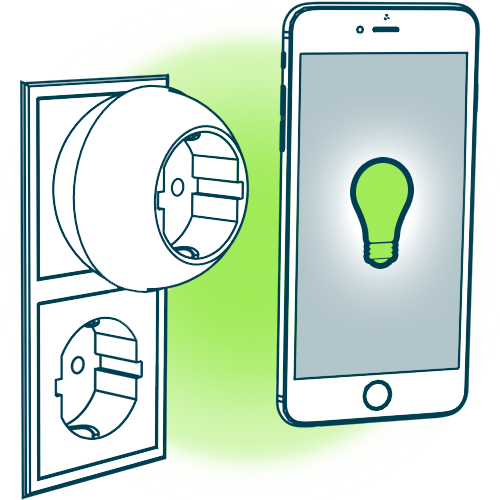
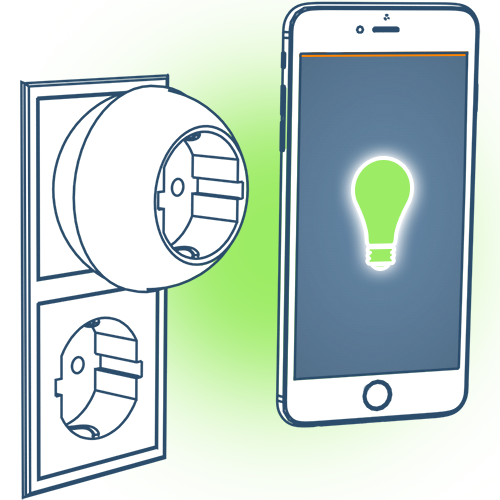
new images for recovery and t2t, cleaned up log. Fixed endless spinney in device overview, disabled mesh

diff --git a/js/views/deviceViews/DeviceOverview.tsx b/js/views/deviceViews/DeviceOverview.tsx
@@ -35,6 +35,7 @@ export class DeviceOverview extends Component<any, any> {
   unsubscribeStoreEvents : any;
   swiper: any = 0;
   unsubscribeSwipeEvent : any;
+  touchEndTimeout: any;
 
   constructor() {
     super();
@@ -88,6 +89,7 @@ export class DeviceOverview extends Component<any, any> {
   componentWillUnmount() {
     this.unsubscribeStoreEvents();
     this.unsubscribeSwipeEvent();
+    clearTimeout(this.touchEndTimeout);
   }
 
 
@@ -143,6 +145,7 @@ export class DeviceOverview extends Component<any, any> {
           loop={false}
           bounces={true}
           onScrollBeginDrag={  () => { checkScrolling(true);  }}
+          onTouchEnd={() => { this.touchEndTimeout = setTimeout(() => { checkScrolling(false); }, 400);  }}
         >
           { this._getContent(hasError, canUpdate, hasBehaviour, deviceType) }
         </Swiper>

diff --git a/js/views/settingsViews/SettingsDeveloper.tsx b/js/views/settingsViews/SettingsDeveloper.tsx
@@ -147,7 +147,7 @@ export class SettingsDeveloper extends Component<any, any> {
       label:"Enable Tap To Toggle",
       value: state.app.tapToToggleEnabled,
       type: 'switch',
-      icon: <IconButton name="md-color-wand" size={22} button={true} color="#fff" buttonStyle={{backgroundColor:colors.purple.hex}} />,
+      icon: <IconButton name="md-color-wand" size={22} button={true} color="#fff" buttonStyle={{backgroundColor:colors.green2.hex}} />,
       callback:(newValue) => {
         if (newValue === false) {
           clearAllLogs();

diff --git a/js/native/libInterface/BluenetPromise.ts b/js/native/libInterface/BluenetPromise.ts
@@ -13,7 +13,7 @@ export const BluenetPromise : any = function(functionName, param, param2, param3
       let bluenetArguments = [];
       let promiseResolver = (result) => {
         if (result.error === true) {
-          LOG.info("PROMISE REJECTED WHEN CALLING ", functionName, " error:", result.data);
+          LOG.info("BluenetPromise: promise rejected in bridge: ", functionName, " error:", result.data);
           reject(result.data);
         }
         else {

diff --git a/js/ExternalConfig.ts b/js/ExternalConfig.ts
@@ -50,7 +50,7 @@ const DeviceInfo = require('react-native-device-info');
     /**
      * Switch to disable the usage of the mesh in the app
      */
-    export const MESH_ENABLED = true;
+    export const MESH_ENABLED = false;
 
     /**
      * Switch to disable the usage of the mesh in the app
